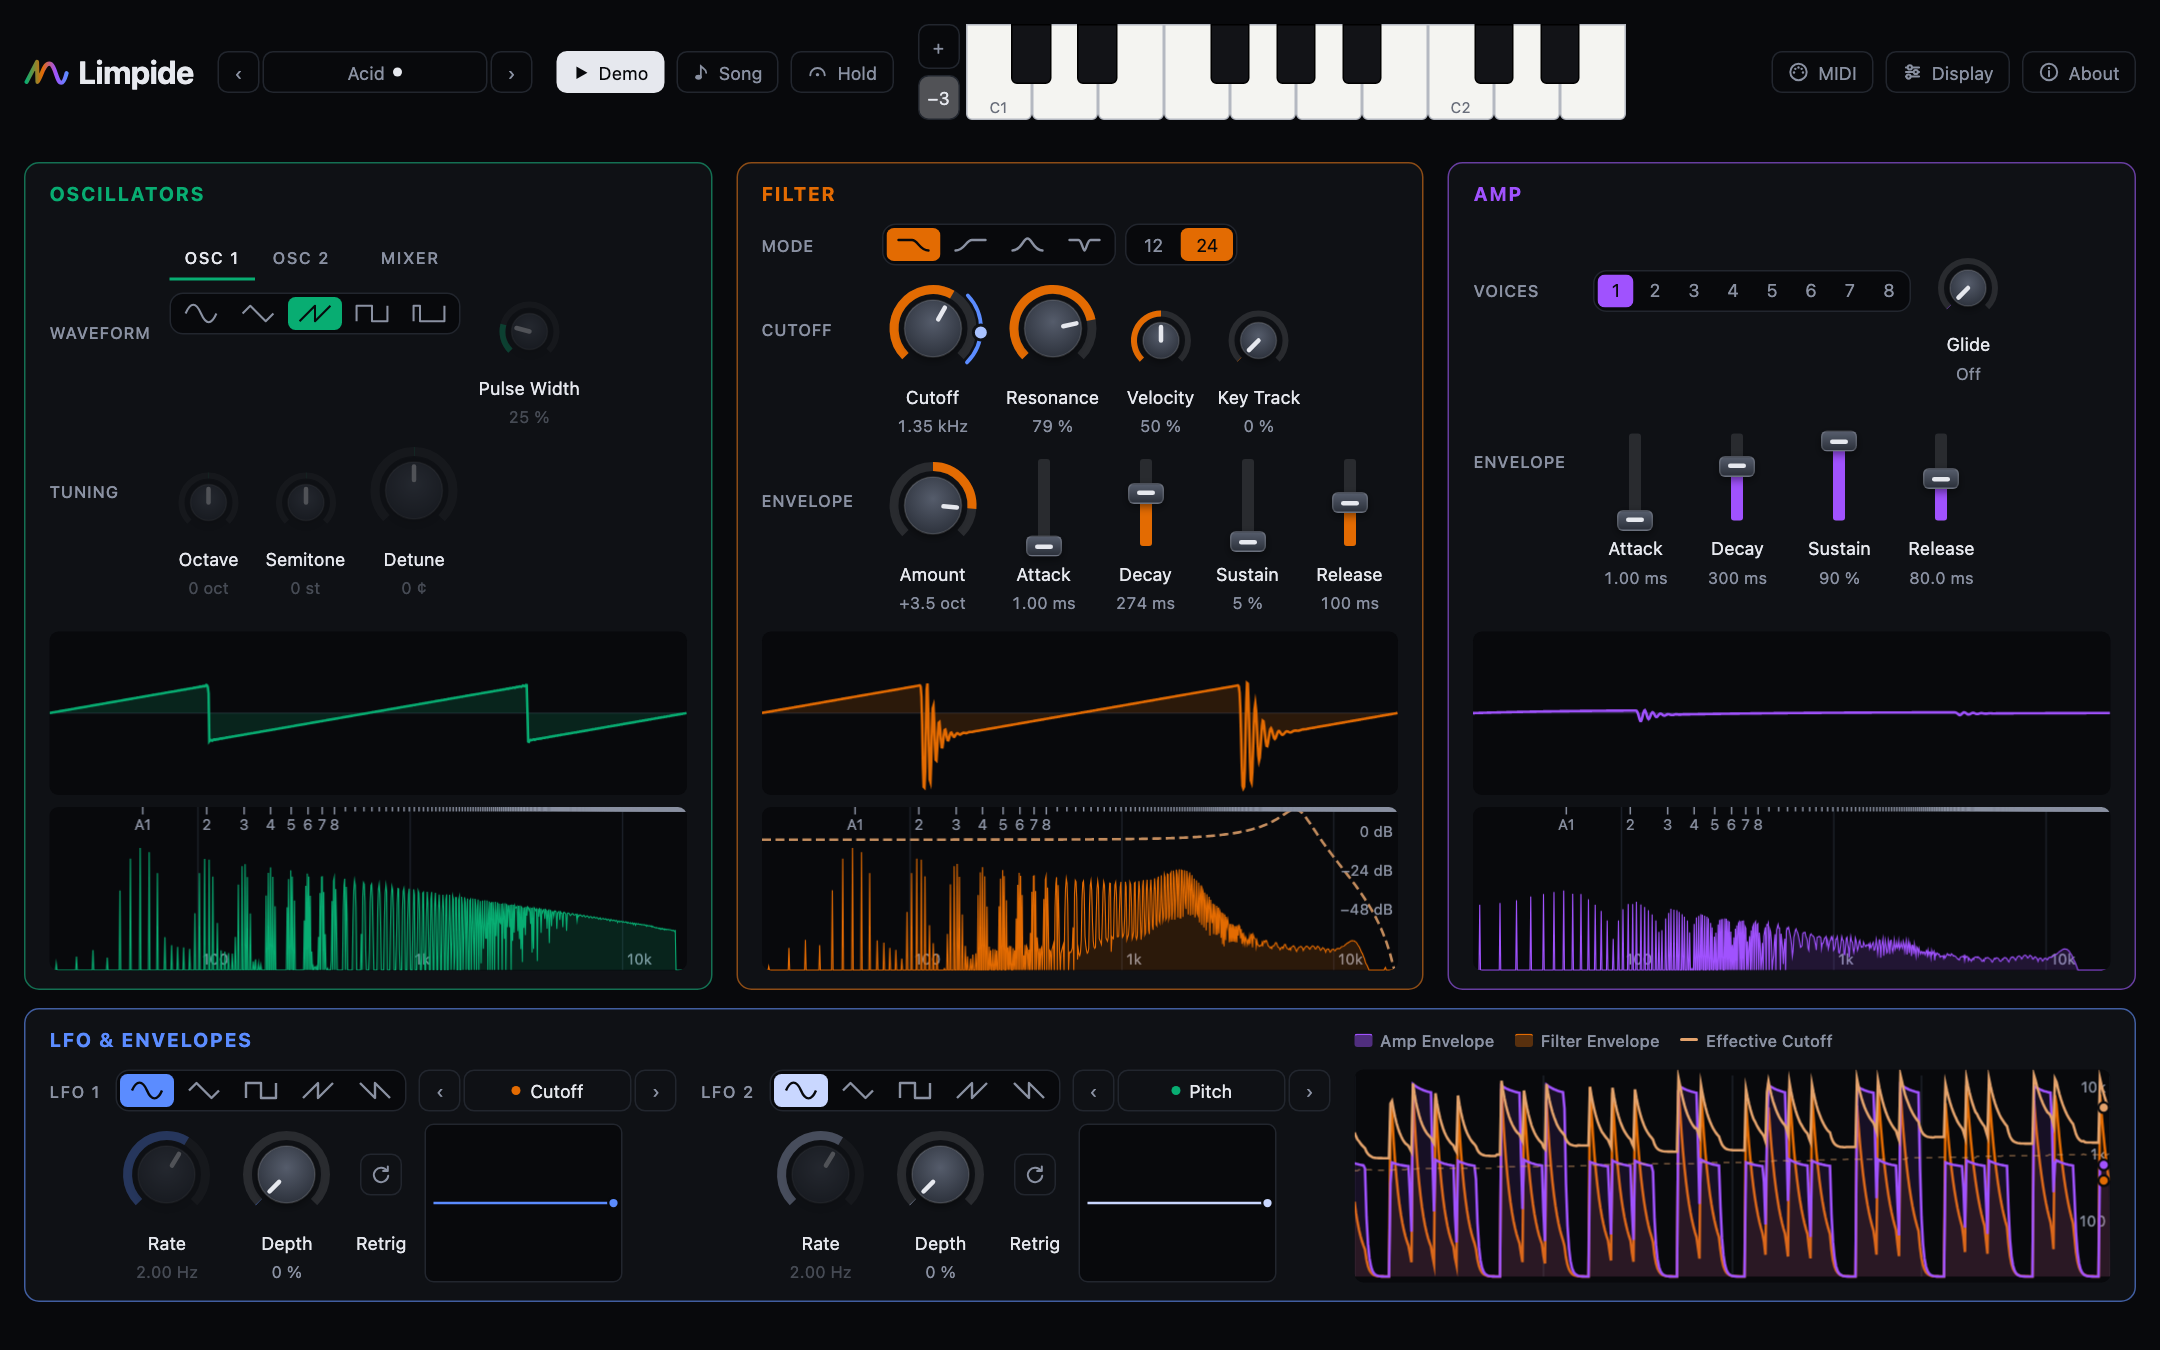
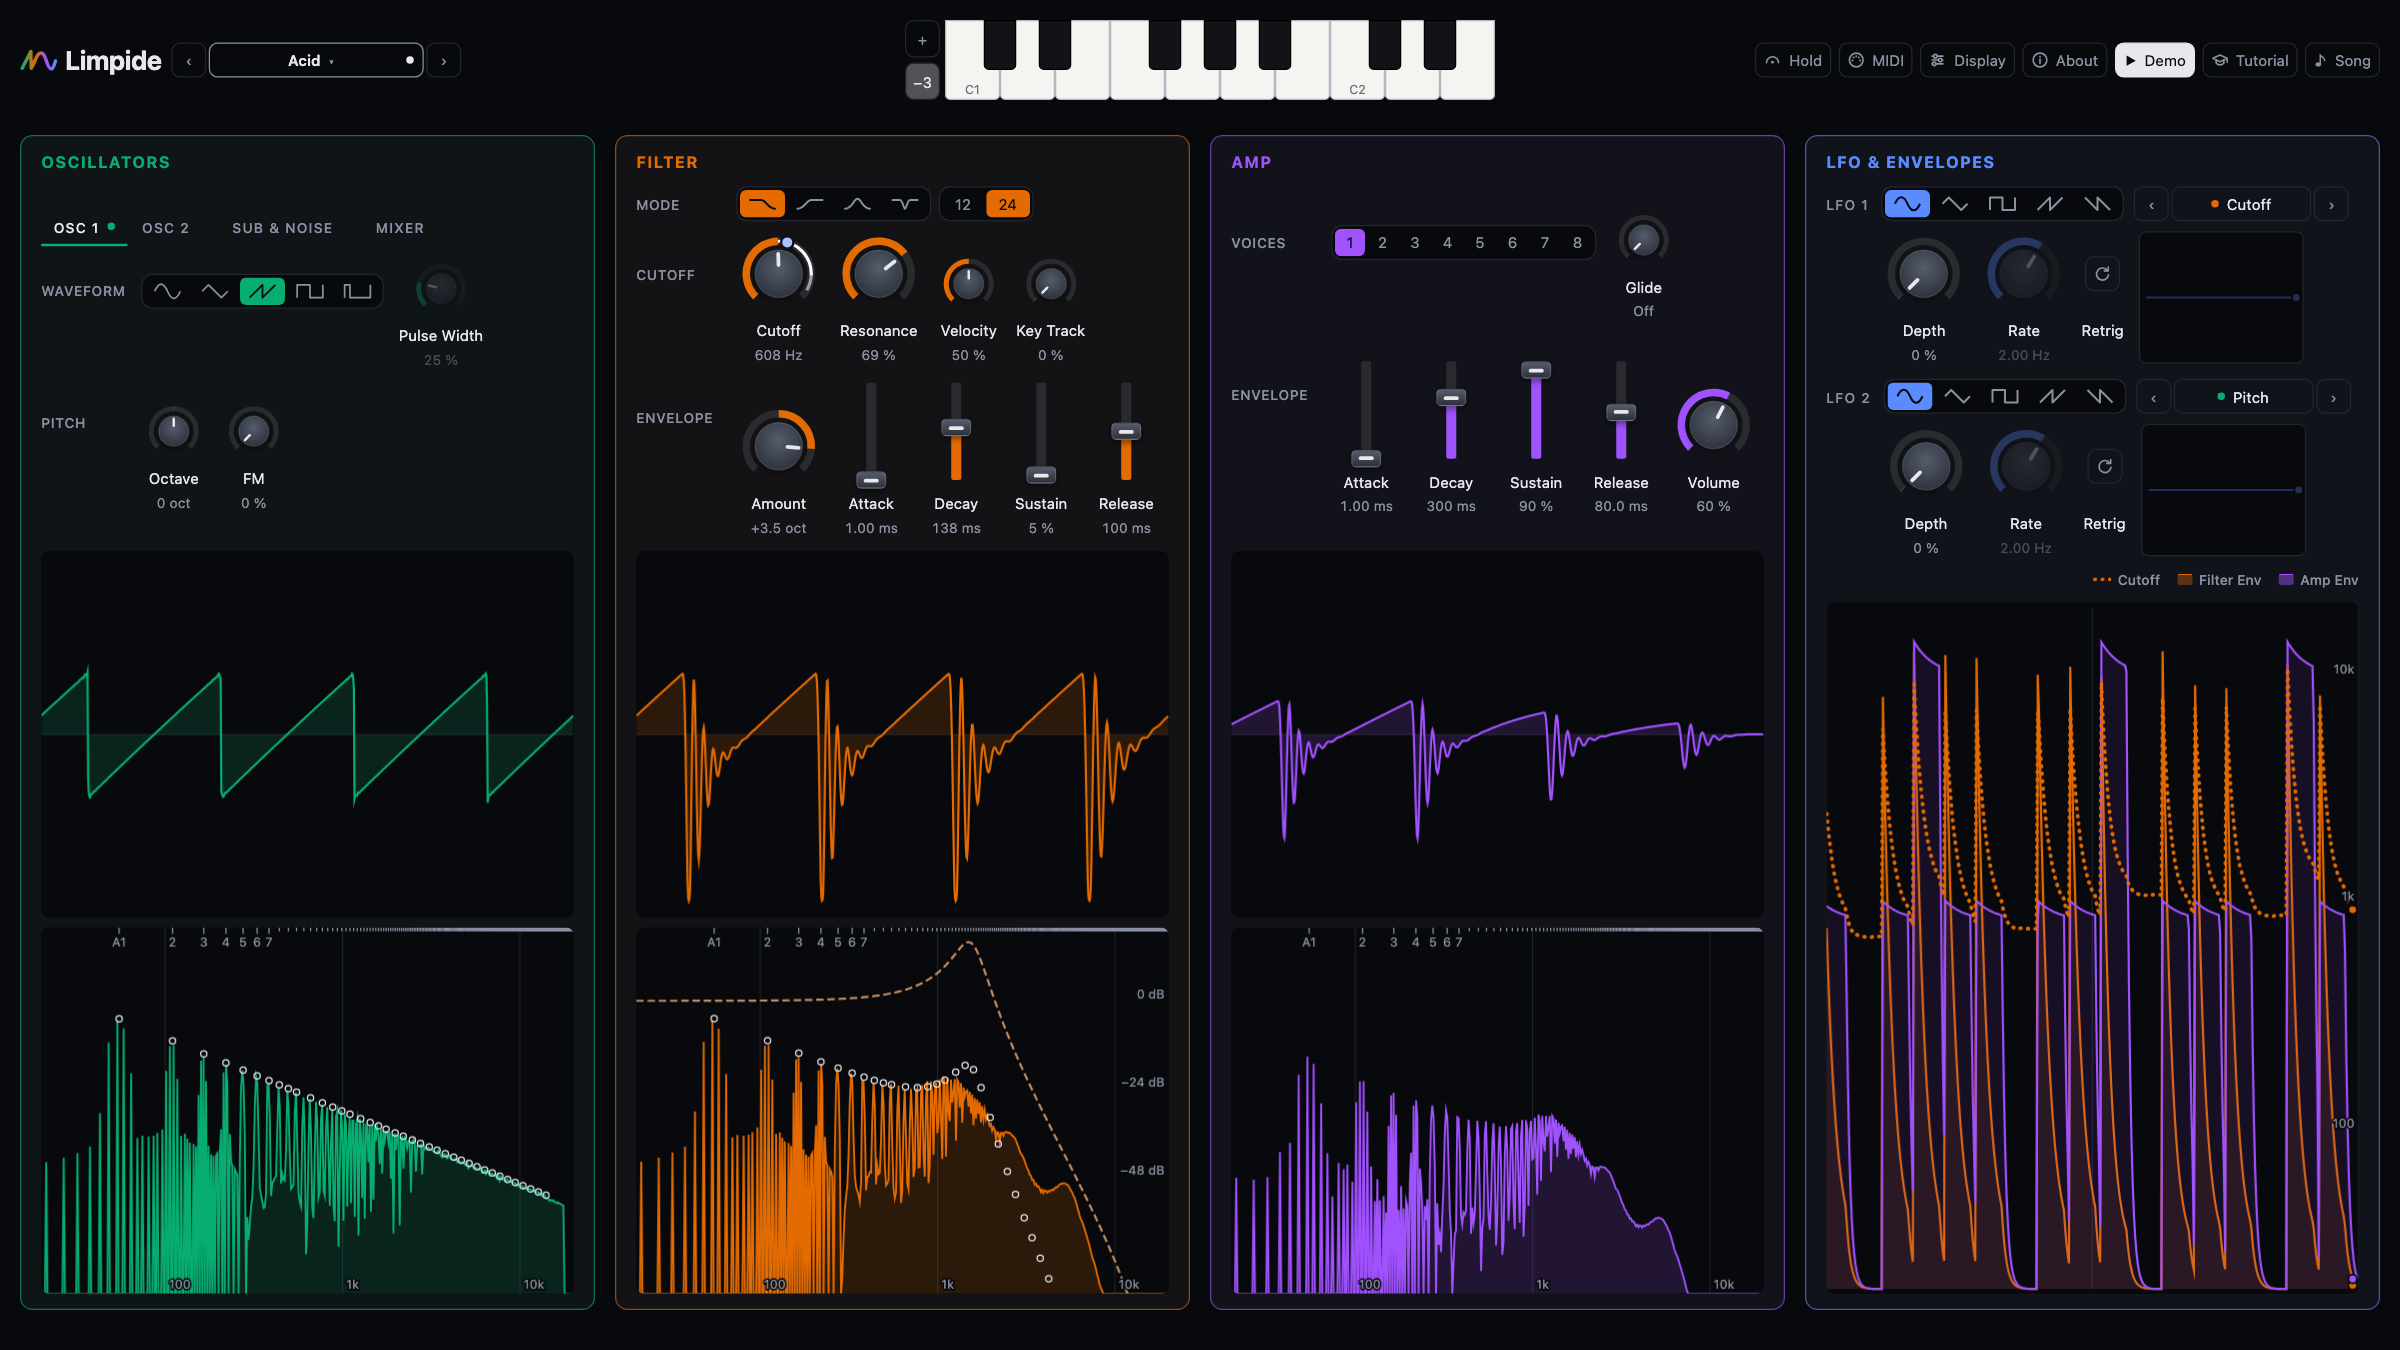
Issue 111: the README shows today's app and credits its author on top
A new screenshot: the Demo playing Acid in the wide layout (1920 x 1080,
four sections across), Dark theme, the four Oscillator tabs and today's
header, the Demo's card closed so every Viewer shows. Under the tagline,
one line credits the author, linked as About links the name. "How it's
built" and "How this was built" are one section; the statistics'
summary moves into it.

diff --git a/README.md b/README.md
@@ -2,9 +2,11 @@
 
 **A subtractive synthesizer that shows you what each stage does to the sound.**
 
+Designed and directed by [Guillaume Boillet](https://www.linkedin.com/in/guillaume-boillet-18208310); code written with [Claude Code](https://claude.com/claude-code), Anthropic's AI coding agent.
+
 ▶ **[Play it in your browser](https://gijom33.github.io/limpide/)**. Nothing to install.
 
-[![Limpide playing its Demo: the Oscillators, Filter and Amp side by side, each with its Scope and Spectrum, and the LFOs and Envelope Timeline below](docs/screenshot.png)](https://gijom33.github.io/limpide/)
+[![Limpide playing its Demo: the Oscillators, Filter and Amp side by side, each with its Scope and Spectrum, and the LFOs and Envelope Timeline beside them](docs/screenshot.png)](https://gijom33.github.io/limpide/)
 
 Every picture on the page moves with the sound you hear.
 
@@ -49,26 +51,15 @@ Then open the address it prints (usually http://localhost:5173).
 
 The browser tests need Playwright's browsers once: `npx playwright install chromium webkit`.
 
-## How it's built
+## How this was built
 
 TypeScript, React and Vite, on the browser's native Web Audio nodes; no audio libraries.
 
-- [CONTEXT.md](CONTEXT.md): the project's vocabulary (Patch, Voice, Tap, Effective Cutoff…). Code and docs use these words exactly.
-- [docs/adr](docs/adr): architecture decisions and why they were made.
-- [docs/issues](docs/issues): the vertical slices the app was built in, in order.
-- [docs/statistics.md](docs/statistics.md): the project's size, quality and performance, release by release (`npm run stats`).
-
-<!-- statistics -->
-At 1.17.0 (2026-10-31): 16,832 lines of app code, 2,099 tests, all passing, 53.7% of the app code’s lines run by the unit and engine tests, 237.7 kB of JavaScript gzipped, the page drawn in 228 ms, the Demo at 59 frames a second for 104.2% of a processor core. Every number, release by release, is on [the statistics page](docs/statistics.md).
-<!-- /statistics -->
-
-## How this was built
-
-Limpide was designed and directed by Guillaume Boillet, and its code written with [Claude Code](https://claude.com/claude-code), Anthropic's AI coding agent (every commit says so in its `Co-Authored-By` line). The work follows Matt Pocock's [AI Hero](https://www.aihero.dev) method, and everything it produced is in this repository:
+Its code was written with Claude Code, and every commit says so in its `Co-Authored-By` line. The work follows Matt Pocock's [AI Hero](https://www.aihero.dev) method, and everything it produced is in this repository:
 
 1. **A PRD** ([docs/prd.md](docs/prd.md)): who it is for, the user stories, what is out of scope, how it is tested.
-2. **Issues** ([docs/issues](docs/issues)): vertical slices, each with what to build, its checklist and what was measured. Plans are "grilled" (questioned until the decisions are explicit) before they are built.
-3. **Decisions** ([docs/adr](docs/adr)) and a **glossary** ([CONTEXT.md](CONTEXT.md)), kept true to the code.
+2. **Issues** ([docs/issues](docs/issues)): the vertical slices the app was built in, in order, each with what to build, its checklist and what was measured. Plans are "grilled" (questioned until the decisions are explicit) before they are built.
+3. **Decisions** ([docs/adr](docs/adr)): the architecture decisions and why they were made. And a **glossary** ([CONTEXT.md](CONTEXT.md)): the project's vocabulary (Patch, Voice, Tap, Effective Cutoff…), which the code and docs use exactly. Both are kept true to the code.
 4. **Tests first** where behaviour can be measured: the engine renders real audio and checks Harmonics against theory; Playwright plays the built site in two browsers.
 5. **An inbox** ([docs/inbox.md](docs/inbox.md)): bugs and ideas as they come, triaged into issues.
 6. **Reviews** ([docs/reviews](docs/reviews)): agents playing a dozen kinds of visitor (a curious contact, a synth player, a designer, a teacher, a screen-reader user, a sceptic of AI code…), their findings back in the inbox.
@@ -76,7 +67,11 @@ Limpide was designed and directed by Guillaume Boillet, and its code written wit
 
 The owner decides what Limpide is, what it looks like, and what ships; those decisions are dated in the issues. The agent proposes, writes the code, the tests and the docs, and checks its work in a real browser before it is committed.
 
-Every push to `main` is tested and deployed to GitHub Pages by [a workflow](.github/workflows/deploy.yml).
+Every push to `main` is tested and deployed to GitHub Pages by [a workflow](.github/workflows/deploy.yml). The project's size, quality and performance are measured at each release (`npm run stats`):
+
+<!-- statistics -->
+At 1.17.0 (2026-10-31): 16,832 lines of app code, 2,099 tests, all passing, 53.7% of the app code’s lines run by the unit and engine tests, 237.7 kB of JavaScript gzipped, the page drawn in 228 ms, the Demo at 59 frames a second for 104.2% of a processor core. Every number, release by release, is on [the statistics page](docs/statistics.md).
+<!-- /statistics -->
 
 ## License
 
